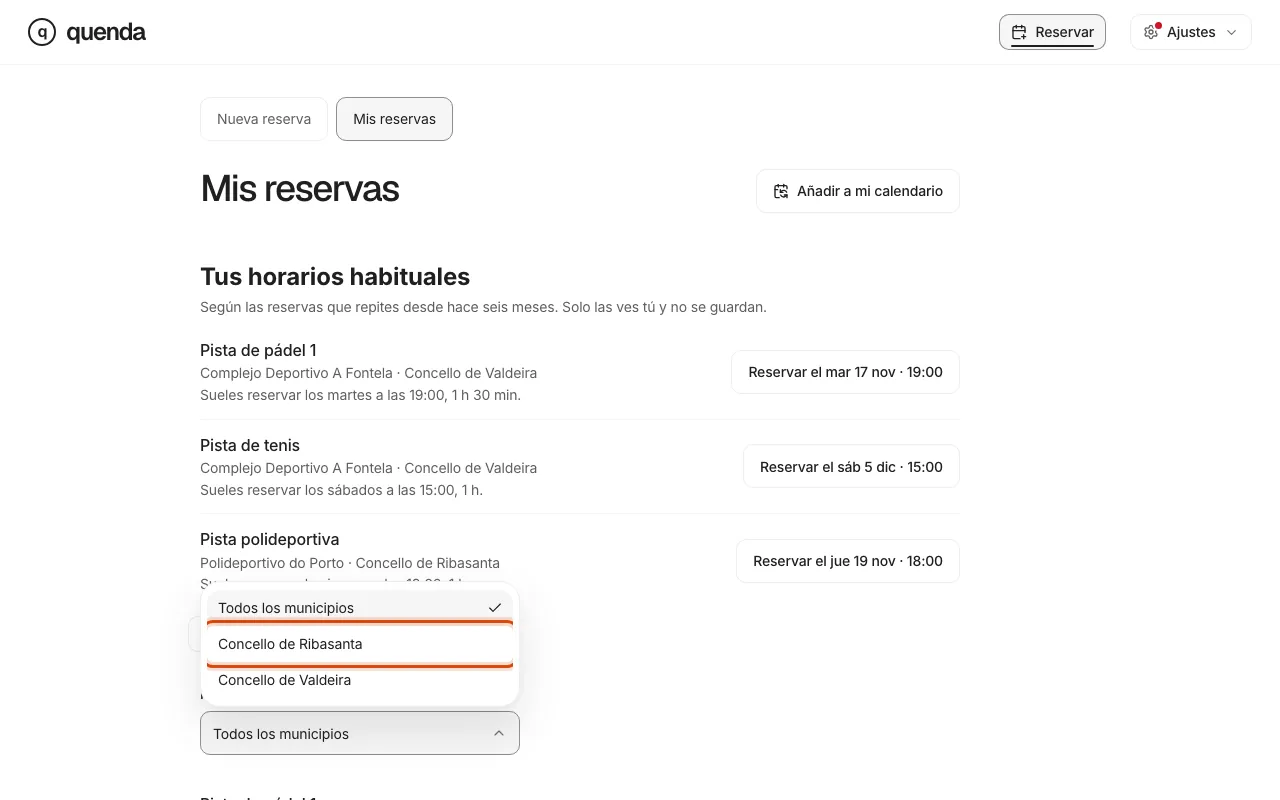
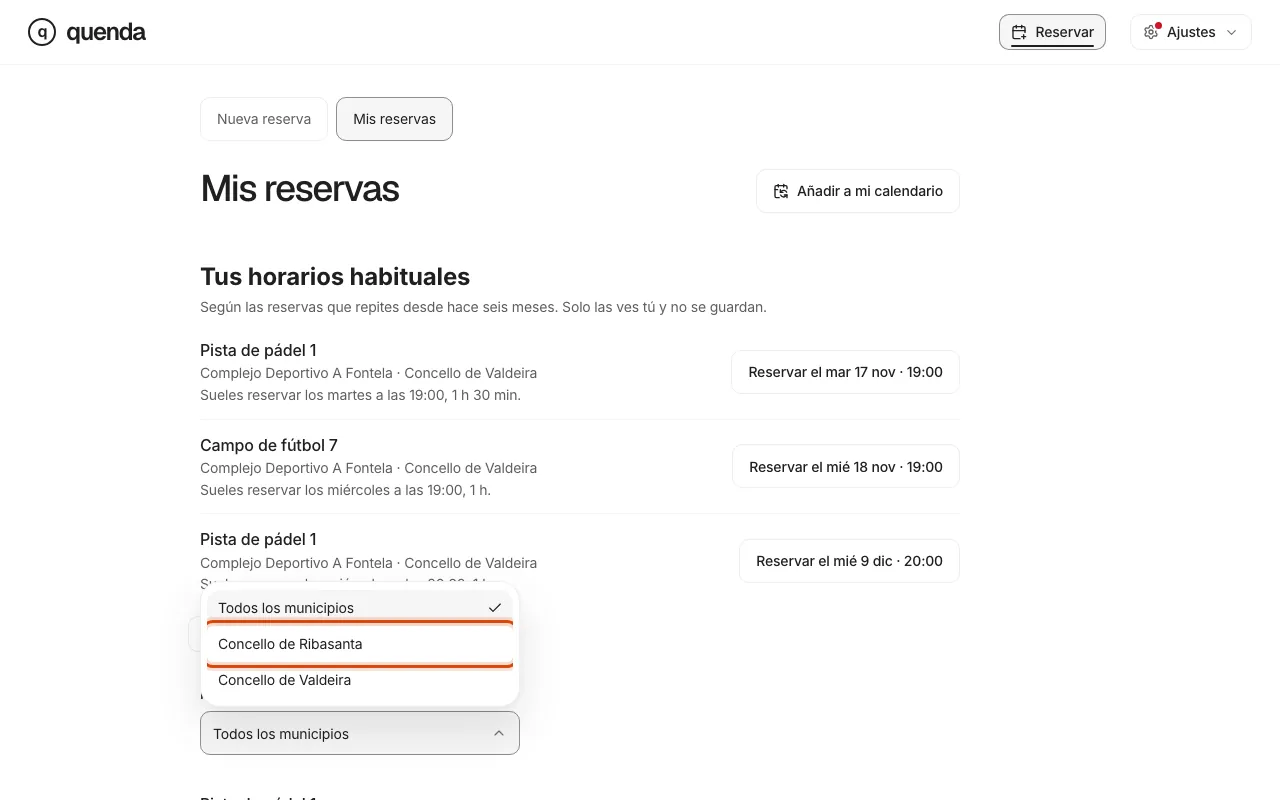
docs(capturas): open a CU-08 finished booking from the filtered list without focus ring

diff --git a/web/docs-capture/cu-08-historial.spec.ts b/web/docs-capture/cu-08-historial.spec.ts
@@ -25,28 +25,19 @@ test("CU-08 consultar el historial de reservas", async ({ page }) => {
   await option.click();
   await expect(filter).toContainText("Ribasanta");
   await expect(list.getByRole("link").first()).toContainText("Ribasanta");
-  await filter.evaluate((node) => node.scrollIntoView({ block: "start" }));
-  await page.mouse.wheel(0, -120);
-  await shot(cu, page, "reservas-de-ribasanta", { target: filter });
-
-  // Paso 2: las páginas siguientes se cargan bajo demanda, de la más
-  // reciente a la más antigua.
-  await filter.click();
-  await page.getByRole("option", { name: "Todos los municipios" }).click();
-  await expect(filter).toContainText("Todos los municipios");
-  const more = page.getByRole("button", { name: "Ver más reservas" });
-  await expect(more).toBeVisible();
-  await shot(cu, page, "ver-mas-reservas", { target: more });
+  // Paso 2: cada reserva lleva su estado. Vista más alta para ver la
+  // cabecera, el filtro y las primeras reservas finalizadas; el foco sale del
+  // filtro para que no tape el recuadro.
+  await filter.evaluate((node) => (node as HTMLElement).blur());
+  await page.setViewportSize({ width: 1280, height: 1200 });
+  await page.evaluate(() => window.scrollTo(0, 0));
   const finished = list
     .getByRole("link")
     .filter({ hasText: "Finalizada" })
     .first();
-  for (let page_ = 0; page_ < 12 && !(await finished.isVisible()); page_++) {
-    await more.click();
-    await page.waitForLoadState("networkidle");
-  }
-  await expect(finished).toBeVisible();
-  await shot(cu, page, "reservas-pasadas", { target: finished });
+  await expect(finished).toBeInViewport();
+  await shot(cu, page, "reservas-de-ribasanta", { target: finished });
+  await page.setViewportSize({ width: 1280, height: 800 });
 
   // Paso 3: el detalle muestra el estado y las normas aceptadas.
   await finished.click();
@@ -70,4 +61,12 @@ test("CU-08 consultar el historial de reservas", async ({ page }) => {
     page.getByRole("heading", { name: "Reserva cancelada", exact: true }),
   ).toBeVisible();
   await shot(cu, page, "detalle-cancelada");
+
+  // Paso 4: las páginas siguientes se cargan bajo demanda, de la más
+  // reciente a la más antigua.
+  await page.goto("/reservas");
+  await expect(list.getByRole("link").first()).toBeVisible();
+  const more = page.getByRole("button", { name: "Ver más reservas" });
+  await expect(more).toBeVisible();
+  await shot(cu, page, "ver-mas-reservas", { target: more });
 });
